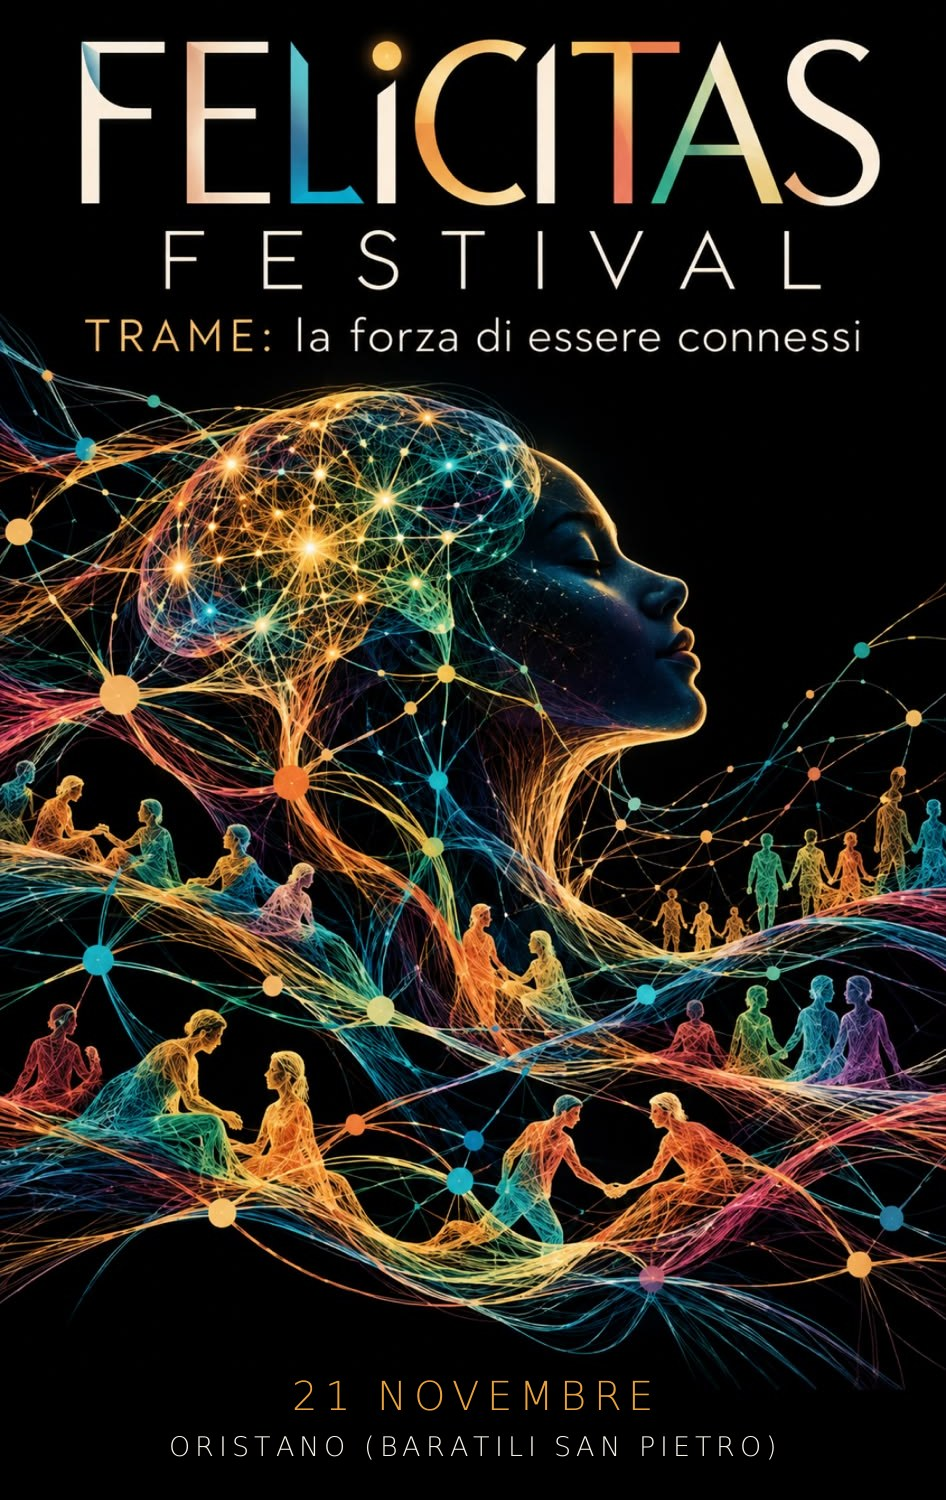
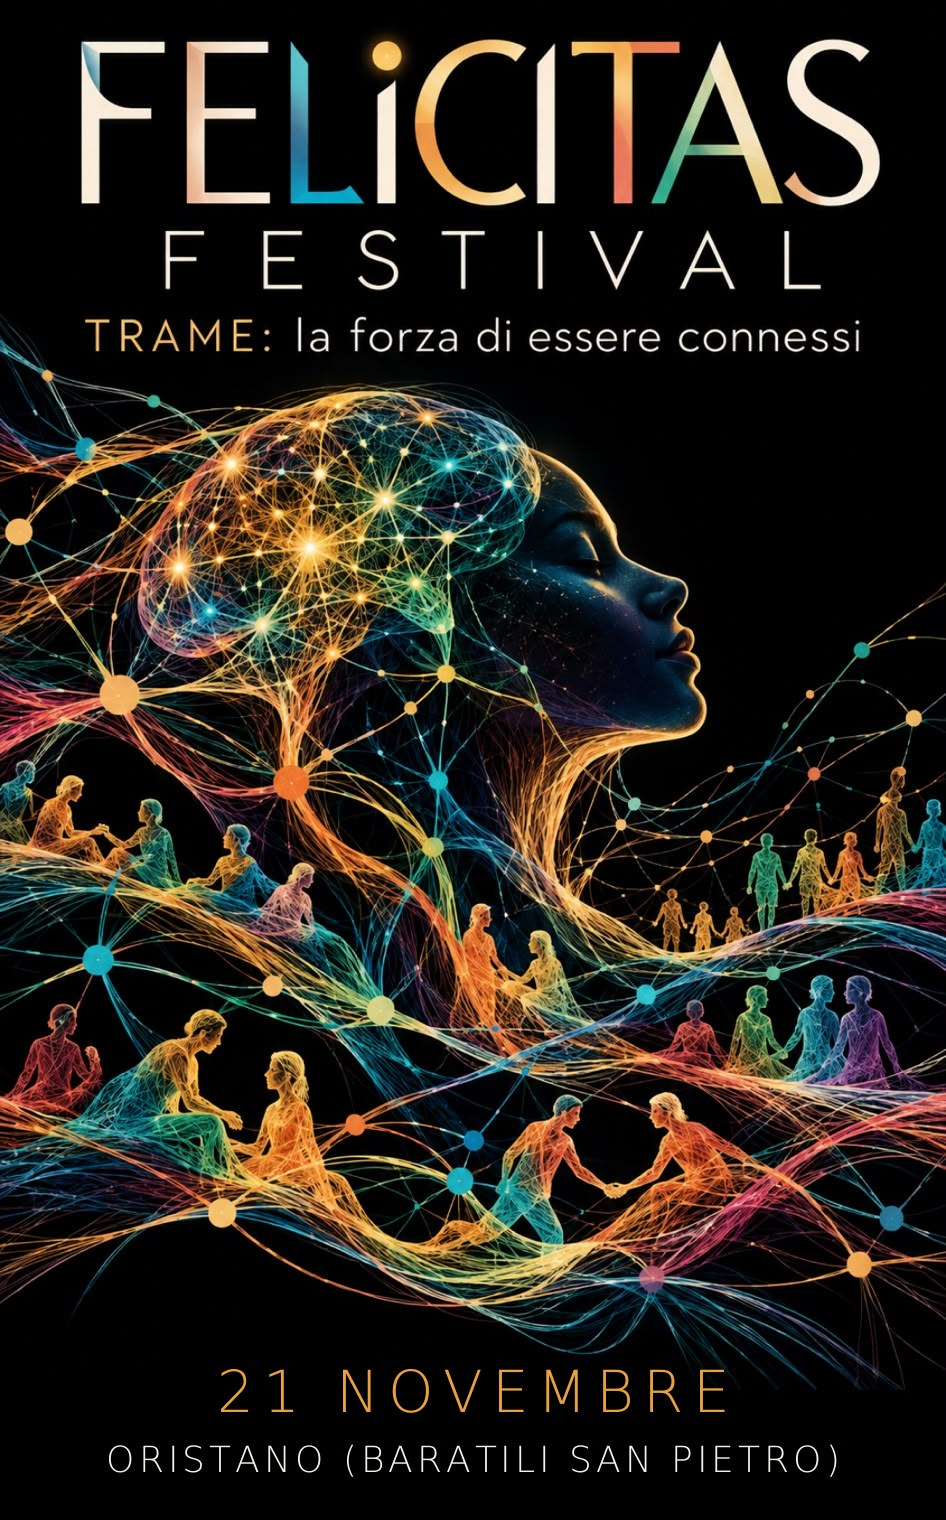
Festival · TRAME: data e luogo più grandi sulla copertina
Claude-Session: https://claude.ai/code/session_01LfRssmsk3sgs8MPzqQCKWN

diff --git a/communitas-aeterna-prova/festival-evento-bozza.html b/communitas-aeterna-prova/festival-evento-bozza.html
@@ -193,7 +193,7 @@ footer .in{display:flex;justify-content:space-between;gap:16px;flex-wrap:wrap}
 <!-- ═══ l'apertura ═══ -->
 <div class="apertura"><div class="in">
   <div class="visual">
-    <img src="casa/festival-trame.jpg?v=2" alt="Felicitas Festival · TRAME: la forza di essere connessi">
+    <img src="casa/festival-trame.jpg?v=3" alt="Felicitas Festival · TRAME: la forza di essere connessi">
     <div class="testo">
       <div class="fm-occ">FELICITASMUNDI · VILLAGGIO FELICITAS · CIVILTÀ SARDA</div>
       <h1>Felicitas Festival</h1>
